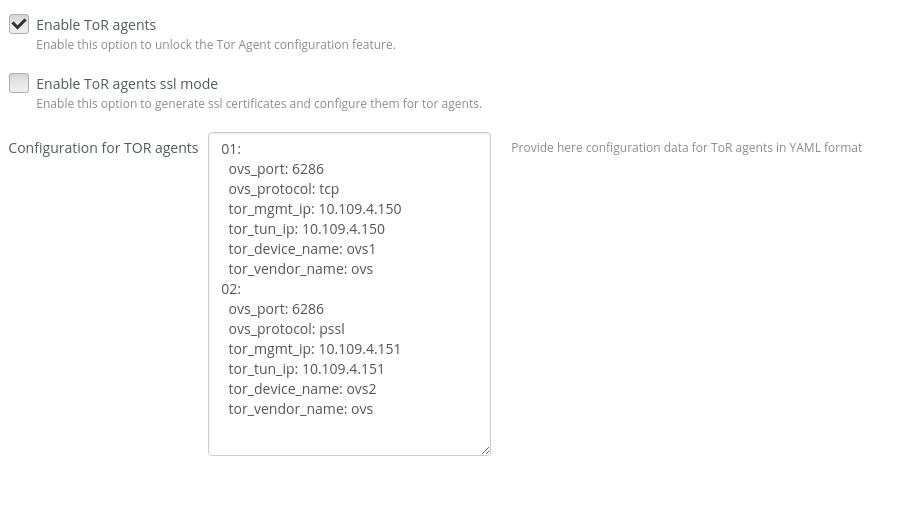
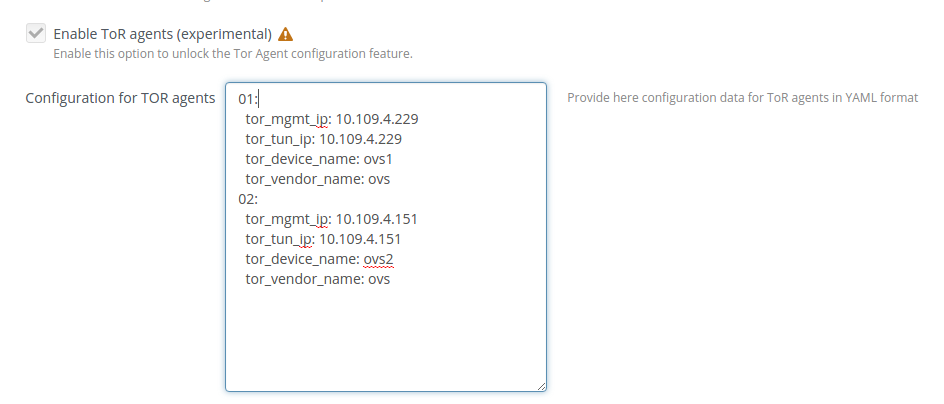
Add TSN HA support

Changed region(s): [[0.0, 0.0297, 0.9634, 0.9802]]

diff --git a/deployment_scripts/generate_tsn_certificates.py b/deployment_scripts/generate_tsn_certificates.py
@@ -1,0 +1,70 @@
+#!/usr/bin/env python
+#    Copyright 2016 Mirantis, Inc.
+#
+#    Licensed under the Apache License, Version 2.0 (the "License"); you may
+#    not use this file except in compliance with the License. You may obtain
+#    a copy of the License at
+#
+#         http://www.apache.org/licenses/LICENSE-2.0
+#
+#    Unless required by applicable law or agreed to in writing, software
+#    distributed under the License is distributed on an "AS IS" BASIS, WITHOUT
+#    WARRANTIES OR CONDITIONS OF ANY KIND, either express or implied. See the
+#    License for the specific language governing permissions and limitations
+#    under the License.
+#
+#    This scipr is used to genereta all TSN certificates per claster
+#
+#    Example: $0 <env_id>
+#    Example: ./generate_tsn_certificates.py 1
+#
+#    By pszypowicz@mirantis.com
+
+import yaml
+import sys, os
+import logging
+from fuelclient.objects import Environment
+from subprocess import call
+
+try:
+    cluster_id = sys.argv[1]
+except Exception:
+    logging.warning('Provide cluster id as first parameter')
+    sys.exit(1)
+
+env = Environment(cluster_id)
+data = env.get_settings_data()
+
+try:
+    tor_configurations = data['editable']['contrail']['metadata']['versions'][0]['tor_agents_configurations']['value']
+except Exception:
+    logging.warning('Cannot read tor agents configuration')
+    sys.exit(2)
+
+certificate_path = '/var/lib/fuel/certificates'
+
+if not os.path.exists(certificate_path):
+    os.makedirs(certificate_path)
+
+directory = certificate_path + '/' + cluster_id + '/'
+
+#generate certificates ca
+call(['ovs-pki','init','--dir',directory])
+
+if not os.path.exists(directory + 'certs/'):
+    os.makedirs(directory + 'certs/')
+
+tor_configurations_yaml = yaml.load(tor_configurations)
+for i in tor_configurations_yaml:
+
+    #tor_agent path
+    tor_agent_directory = directory + 'certs/' + 'tor_agent_' + str(i)
+    if not os.path.exists(tor_agent_directory):
+        os.makedirs(tor_agent_directory)
+        call(['ovs-pki','req+sign','tor_agent_' + str(i),'--dir',directory],cwd=tor_agent_directory)
+
+    vtep_directory = directory + 'certs/' + 'vtep_' + str(i)
+    if not os.path.exists(vtep_directory):
+        os.makedirs(vtep_directory)
+        call(['ovs-pki','req+sign','vtep_' + str(i),'--dir',directory],cwd=vtep_directory)
+

diff --git a/doc/source/contrail_tsn.rst b/doc/source/contrail_tsn.rst
@@ -48,6 +48,20 @@ To configure TSN in your network, you need TOR switch.
 
     \clearpage
 
+HA implementation details
+-------------------------
+
+Contrail TSN in HA mode is implemented for default SSL mode.
+
+All required certificates will be located on CONTRAIL-TSN node in location:
+::
+
+  /var/lib/astute/tsn_certificates/certs
+
+There will be two folders per TOR service. Folder named tor_agent_<@id> contain certs
+for tor agent service. Folder named vtep_<@id> contain certificates which should be delivered
+to ToR Switch.
+
 Configure TSN
 -------------
 
@@ -55,24 +69,27 @@ Configure TSN
 
     .. image:: images/tsn_settings.png
 
-#.  Enable tor agent SSL certifications creation (optional)
-
 #.  Provide Tor Agents configuration in YAML format, based on example
     ::
 
       01:
-        ovs_port: 6286
-        ovs_protocol: tcp
         tor_mgmt_ip: 10.109.4.150
         tor_tun_ip: 10.109.4.150
         tor_device_name: ovs1
         tor_vendor_name: ovs
       02:
-        ovs_port: 6286
-        ovs_protocol: pssl
         tor_mgmt_ip: 10.109.4.151
         tor_tun_ip: 10.109.4.151
         tor_device_name: ovs2
         tor_vendor_name: ovs
+
+#.  Deploy additional node/nodes with CONTRAIL-TSN role
+
+    .. image:: images/contrail-tsn-nodes.png
+
+#.  Configure ToR Switches with SSL certificates located on TSN node in:
+    ::
+
+      /var/lib/astute/tsn_certificates/certs
 
 #.  Verify working TSN by going to Contrail web UI
